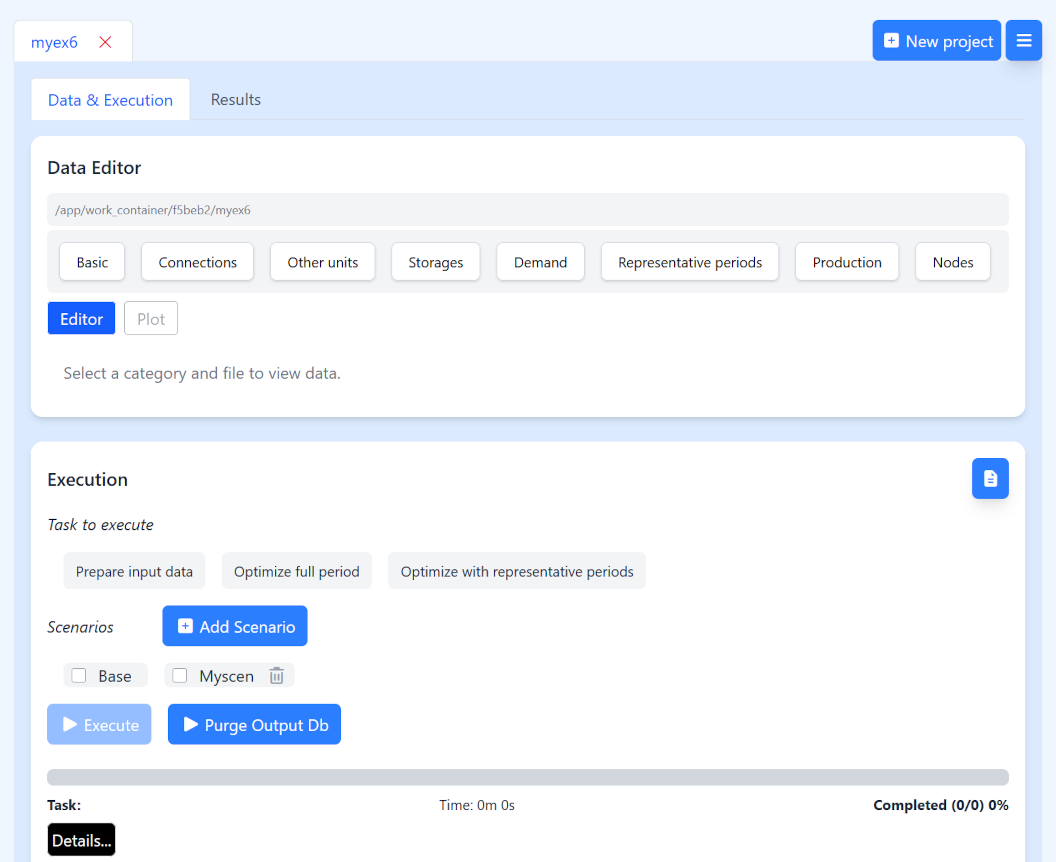
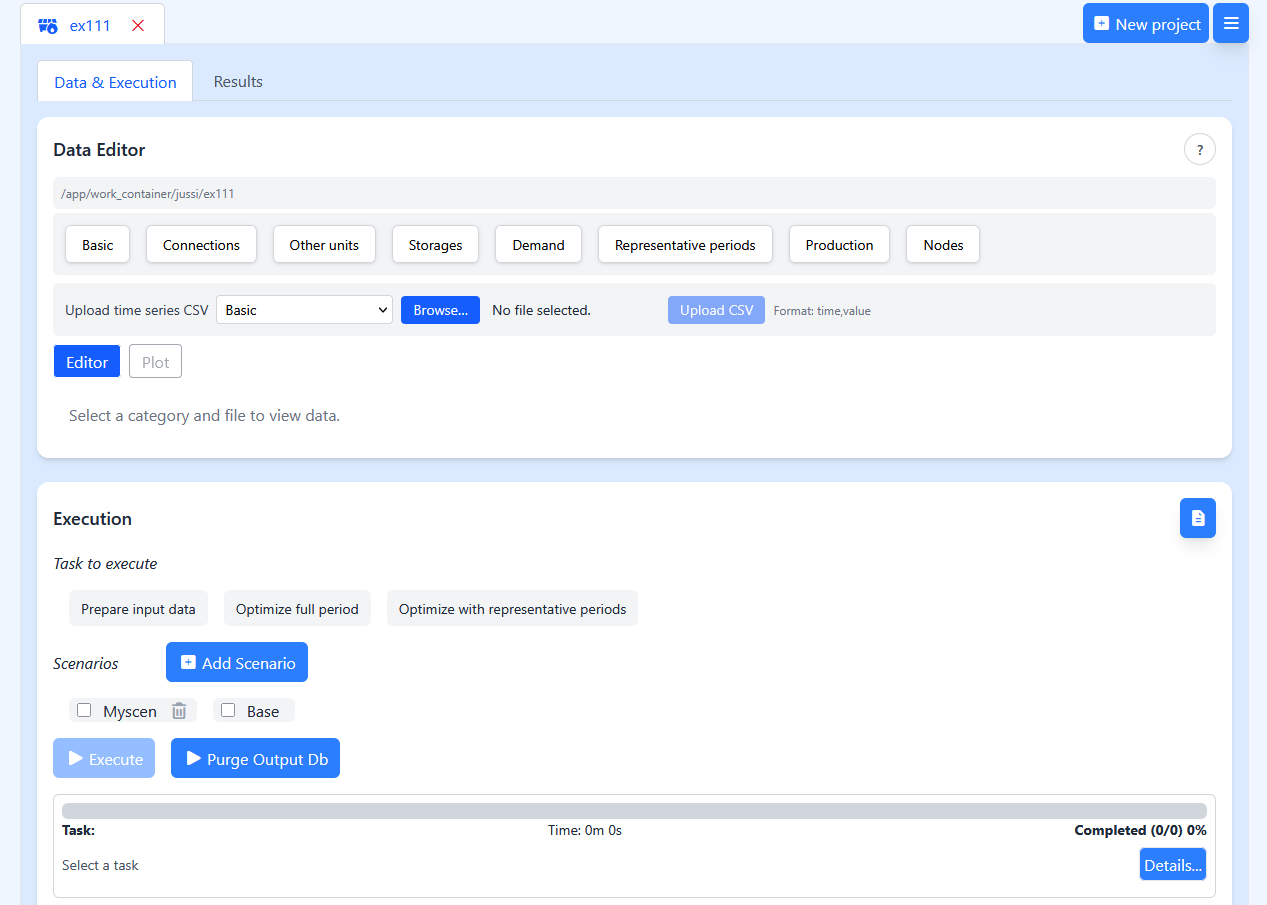
updated docs.

diff --git a/docs/introduction.md b/docs/introduction.md
@@ -322,7 +322,7 @@ You will need different types of data for different parameter indices and values
 | Duration     | 3h  | Represents a time duration. The unit can be either `Y` (for year), `M` (for month), `D` (for day), `h` (for hour), `m` (for minute), or `s` (for second). |
 | timeseries     | ts:elec7       | always begin with `ts:` |
 
-For datetimes such as time stamps the recommended format is ISO8601 (e.g. 2020-03-01T01:00). In case of timeseries, the actual timeseries data should be placed in a CSV file in the input data folder (same folder as the referencing Excel file). The file should have two columns which have column titles "time" and "value". File name should have the format ts_ + time series name + .csv. For example if you write ts:elec7 in the input data table, file name ts_elec7.csv is expected. Note that Siteopt does not make daylight saving time adjustments.
+For datetimes such as time stamps the recommended format is ISO8601 (e.g. 2020-03-01T01:00). In case of timeseries, the actual timeseries data should be placed in a CSV file (text file where column are separated by commas) in the input data folder (same folder as the referencing Excel file). If you use the SiteOpt web application, there is a button which allows you to select a CSV file on your computer and upload it. The file should have two columns which have column titles "time" and "value". File name should have the format ts_ + time series name + .csv. For example if you write ts:elec7 in the input data table, file name ts_elec7.csv is expected. Note that Siteopt does not make daylight saving time adjustments.
 
 ![Basic example](images/timeseries.svg){title="Example time series file. Columns should be separated by commas."}
 
@@ -433,9 +433,10 @@ The main window of the Siteopt web app with normally has the data and execution 
 - delete a row by ticking the box in front of the row and pressing `Delete selected`
 - add new rows to the bottom by pressing `Add row`
 - replace the whole file by a file on your computer by pressing first `Browse`, selecting a file of the same name, press `Open` and then `Replace`
-- change sheets in the file from the tabs below the data table. This applied only to files which have multiple tabs, such as "modelspec.xlsx".
+- upload a time series file in CSV format by first selecting the folder it goes to from a dropdown menu. The folder should be the same one where it is referenced. `Upload CSV` adds the file to the project.
+- change sheets in the file from the tabs below the data table. This applied only to files which have multiple sheets, such as "modelspec.xlsx".
 - save the edited data by pressing `Save` (or CTRL-S)
-
+- discard the edits by selecting some other file and clicking `discard` when prompted.
 You will notice that some cells accepts text values, others numeric values (or timeseries references preceeded by "ts:"), and still others a selection of predefined values. If you make a reference to a time series, there is a button which allows you to upload the corresponding CSV file. A wrong type of data causes the cell to be highlighted. You will also see an exclamation mark next to the file name in the data editor.
 
 Refer to the guidelines in the “Preparing input data” section for the required data‑input format.
@@ -452,6 +453,8 @@ You first select a task and then press `Execute`. You have to prepare input data
 
 `Purge Output Db` clears the results database to remove clutter and save space.
 
+!!! info "Important Information"
+    When Optimizing with full period the solution can be slow. However it is safe to use this option with the example model and other small models where there are not many nodes and the time horizon is short. 
 
 ### Viewing results
 

diff --git a/docs/trainingkit.md b/docs/trainingkit.md
@@ -1,0 +1,8 @@
+# Training kit for the SiteOpt tool
+
+## Introduction
+
+This training kit provides a practical introduction to the optimization tool, consisting of short instructional videos. It’s designed to help you quickly understand the core features and start applying them in real workflows.
+
+## List of training videos provided:
+